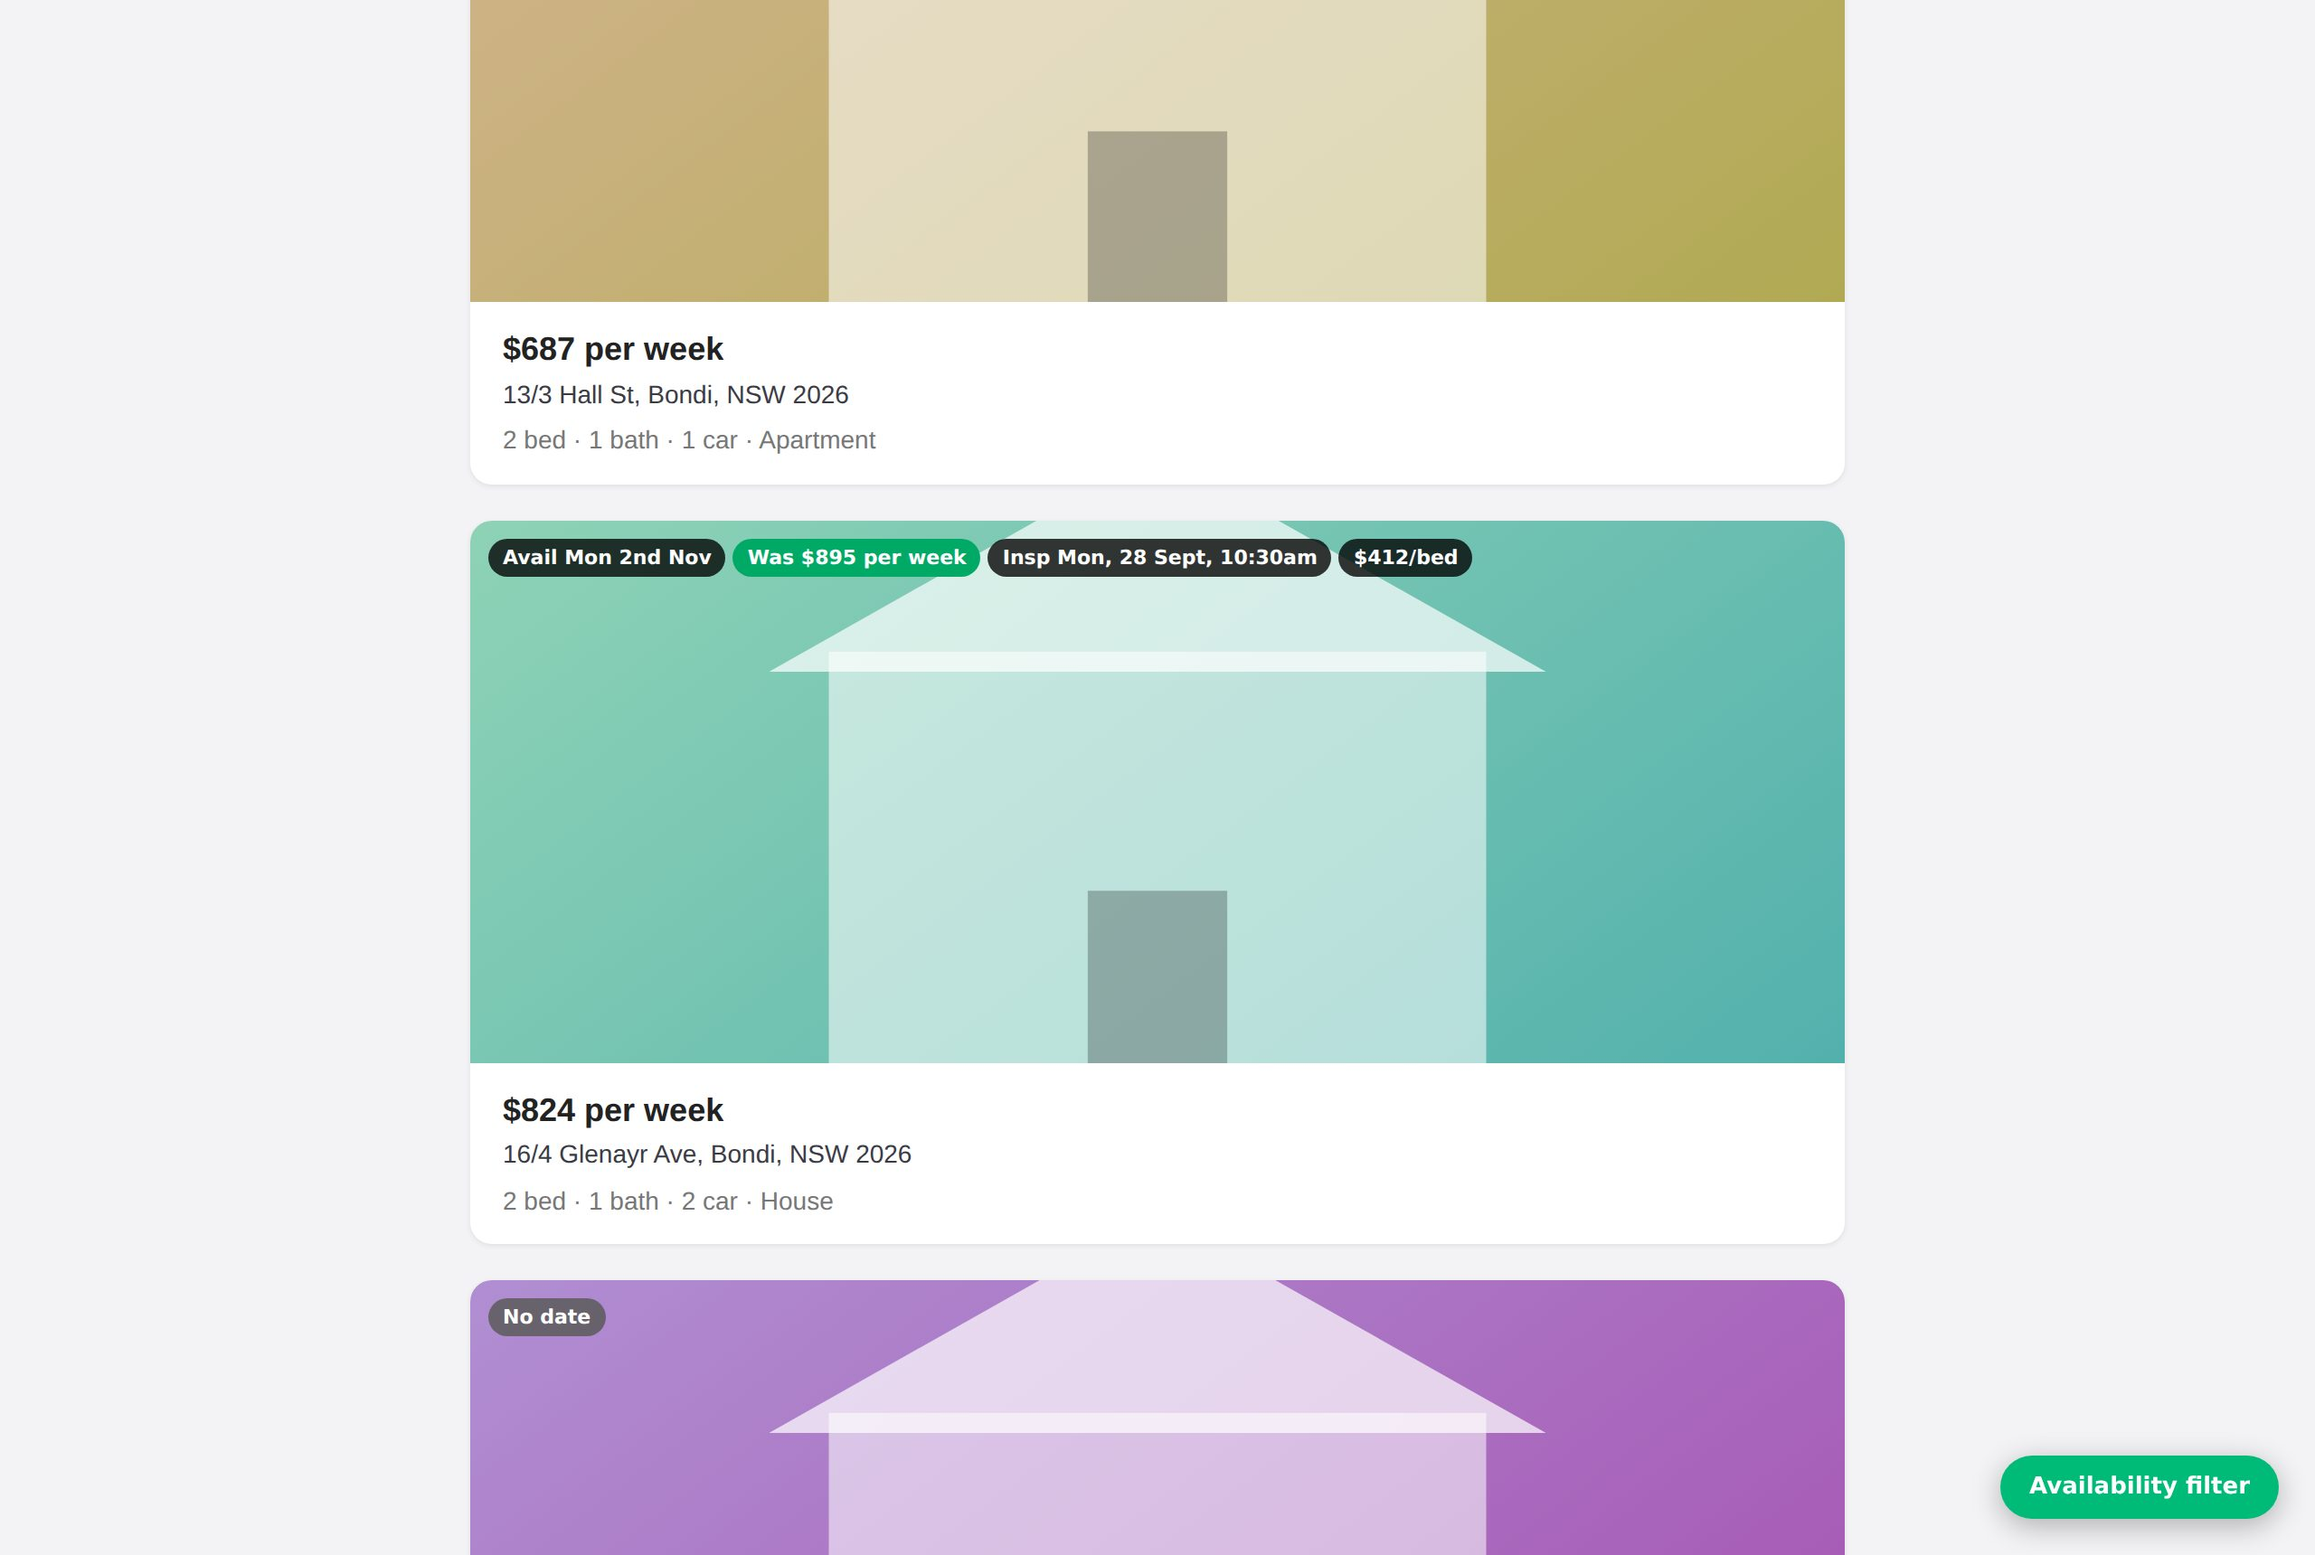
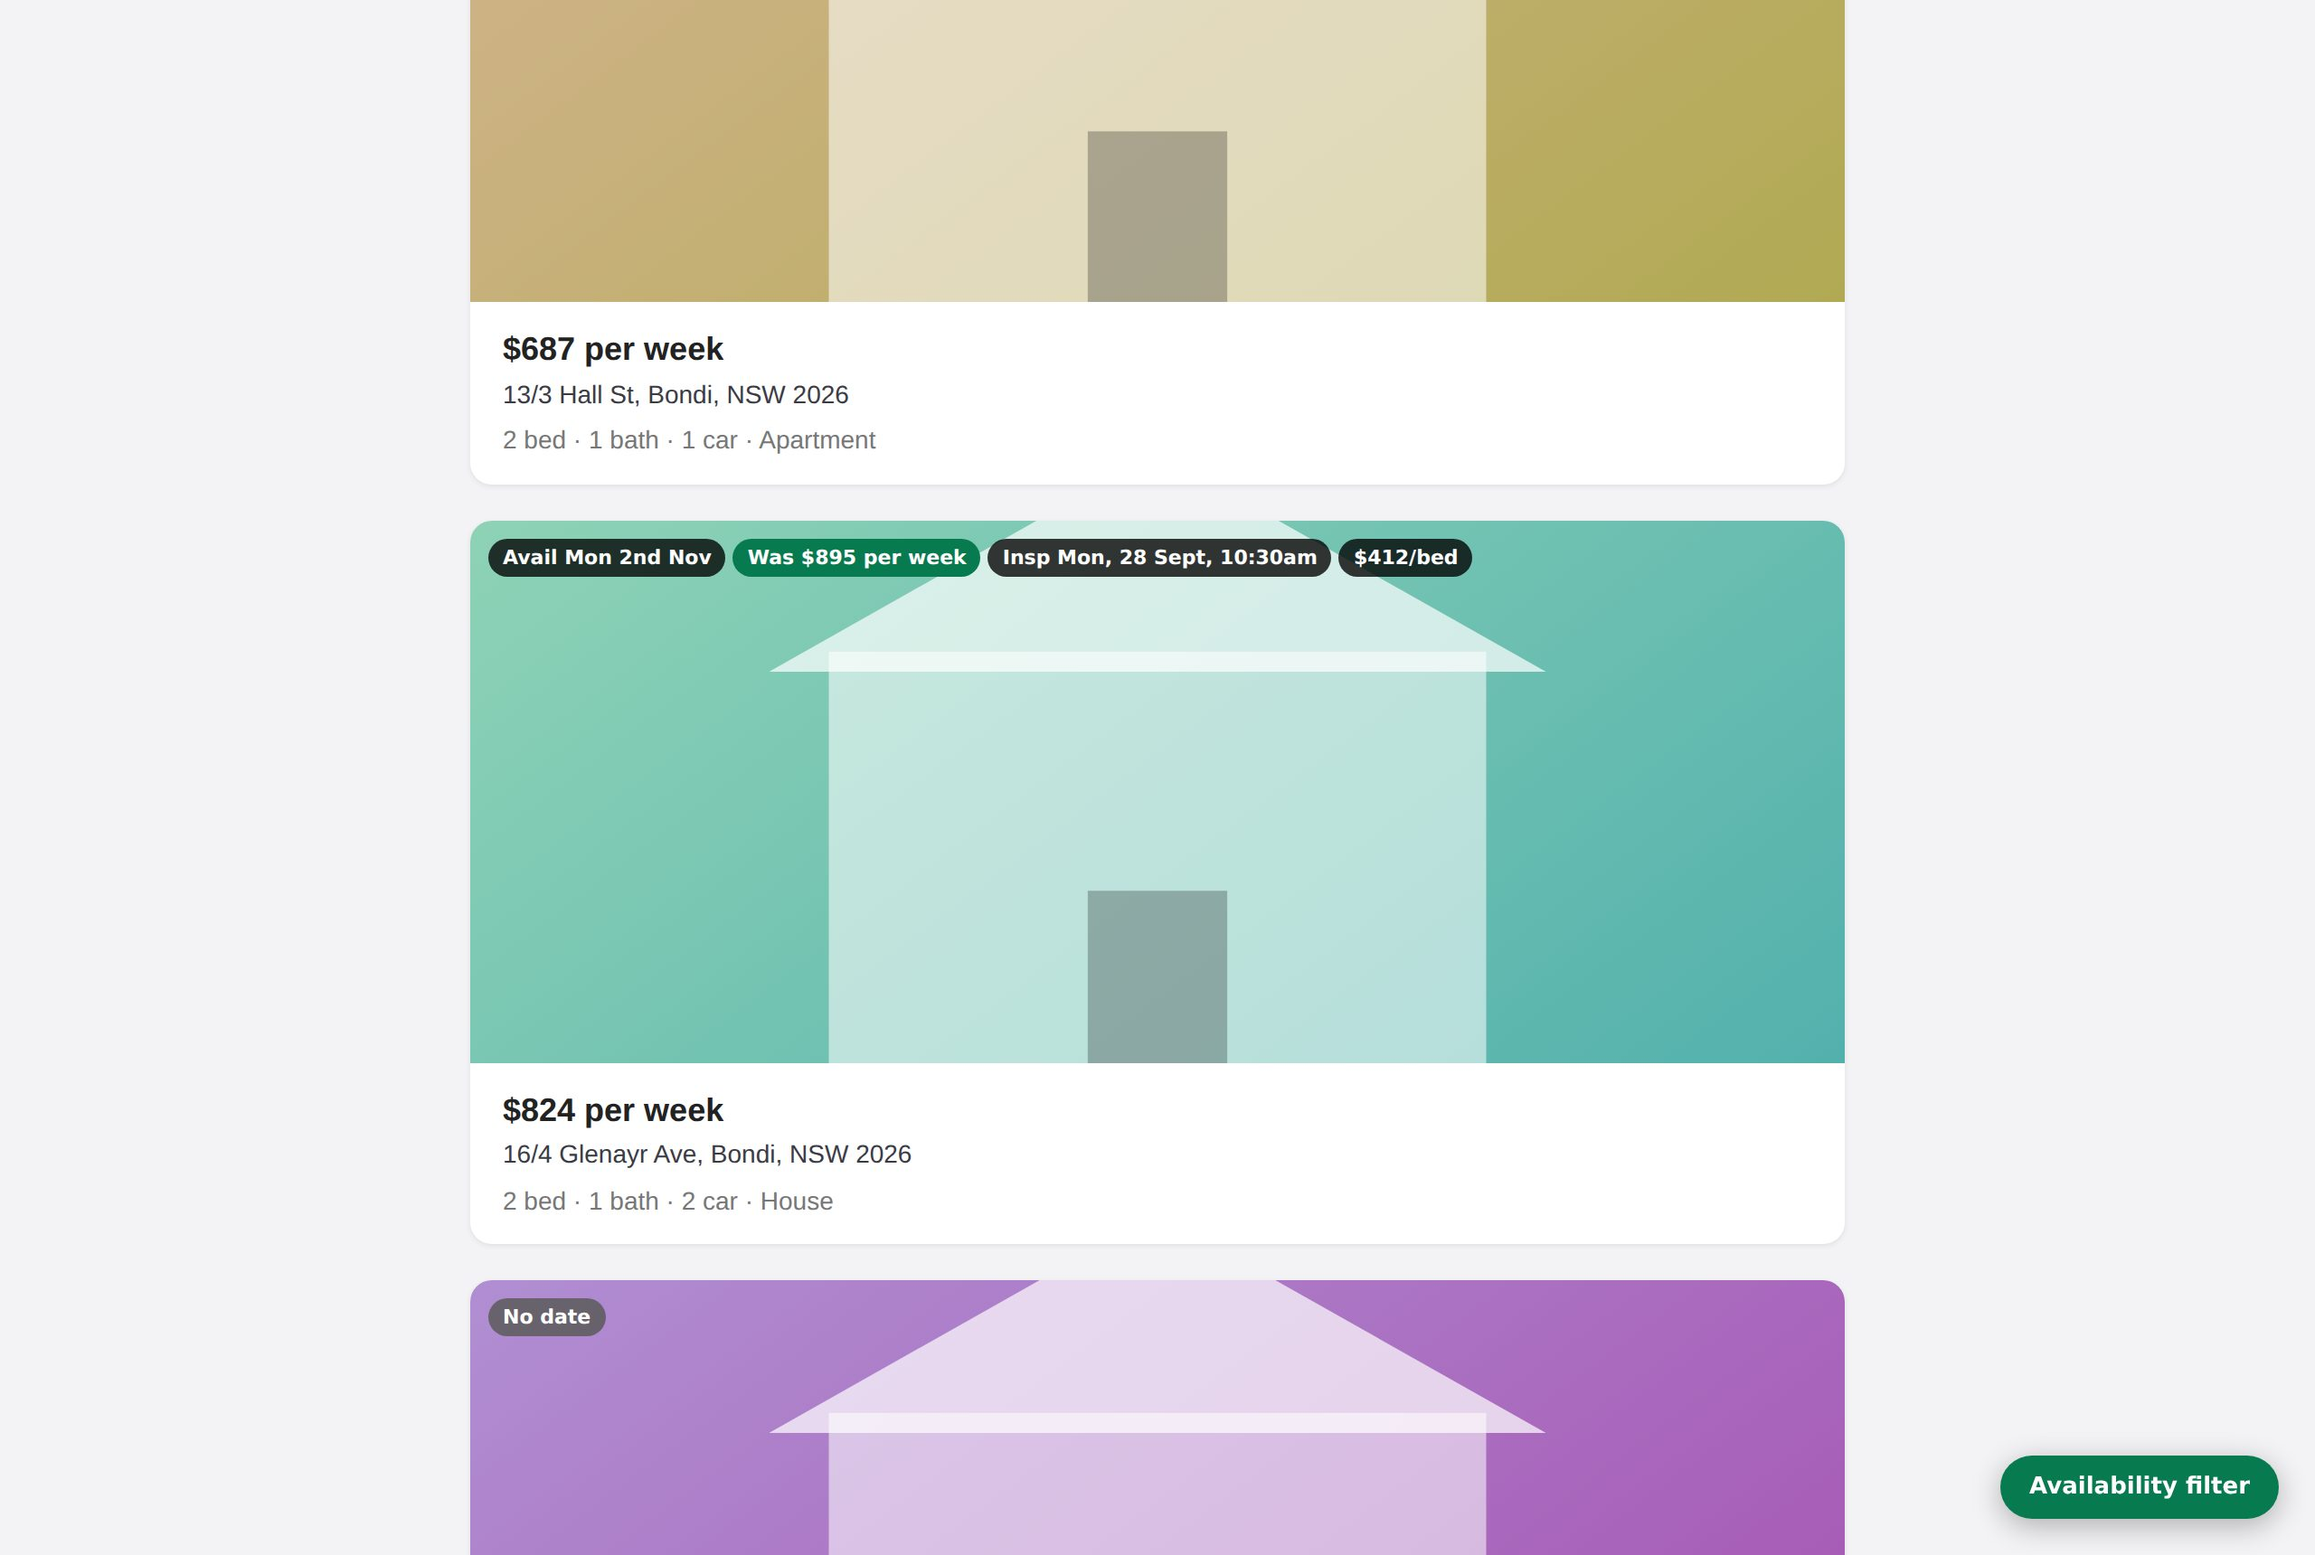
Bump 2.3.0; changelog; refresh screenshots

Changed region(s): [[0.8438, 0.9244, 1.0, 0.986], [0.3125, 0.339, 0.4375, 0.3698]]

diff --git a/rea-availability-filter.user.js b/rea-availability-filter.user.js
@@ -1,7 +1,7 @@
 // ==UserScript==
 // @name         REA Availability Filter
 // @namespace    https://github.com/cpwillis/rea-enhancement
-// @version      2.2.0
+// @version      2.3.0
 // @description  Availability-date filtering and sorting, extra filters, cross-page merging, on-card availability badges and CSV/TSV export for realestate.com.au rental searches.
 // @author       cpwillis
 // @homepageURL  https://github.com/cpwillis/rea-enhancement

diff --git a/CHANGELOG.md b/CHANGELOG.md
@@ -2,11 +2,17 @@
 
 Versions match the userscript's `@version`; installs auto-update from `main` when it increases.
 
-## Unreleased
+## 2.3.0
 
 - Remembers results per search between visits; Refresh tags listings new since the last visit and counts ones no longer listed (optionally shown). "New since last visit only" filter; "Newest first" falls back to first-seen time. Opt-out setting clears stored results.
 - "New" is now per search (was: first time this browser saw a listing, which tagged every listing in a newly searched suburb).
 - Backups include remembered searches.
+- Shortlist, hidden and notes stay in sync across tabs; corrupt stored data recovers.
+- Accessibility: focus kept after toggles and searches, Close returns focus, screen-reader names on icon buttons, focus trap when full-screen on phones, one announcement per search, AA-contrast accent, visible focus ring.
+- Undo after hiding a listing; action buttons always visible on touch screens; counts beside shortlist/hidden filters.
+- Fixed: first click after typing in a filter was swallowed.
+- "Was $X" expires after 14 days; status counts no longer double-count listings shown in both exact and nearby results; conflicting "from" and "within" explained.
+- Lower memory: at most 12 raw result pages cached.
 
 ## 2.2.0
 

diff --git a/README.md b/README.md
@@ -42,7 +42,7 @@ Updates are automatic: Tampermonkey checks `@updateURL` (the file on `main`) and
 
 **Export**: CSV (opens cleanly in Excel), TSV, or copy to clipboard for Google Sheets. Includes weekly rent, $/bed, inspections, shortlist and previous price.
 
-**Dark mode and mobile width** follow your system settings.
+**Dark mode and mobile width** follow your system settings. Keyboard and screen-reader friendly (labelled controls, focus kept where you were, full-screen drawer is modal on phones).
 
 <p><img src="docs/screenshots/drawer-dark.jpg" width="64%" alt="Dark mode"> <img src="docs/screenshots/mobile.jpg" width="24%" alt="Mobile width"></p>
 
